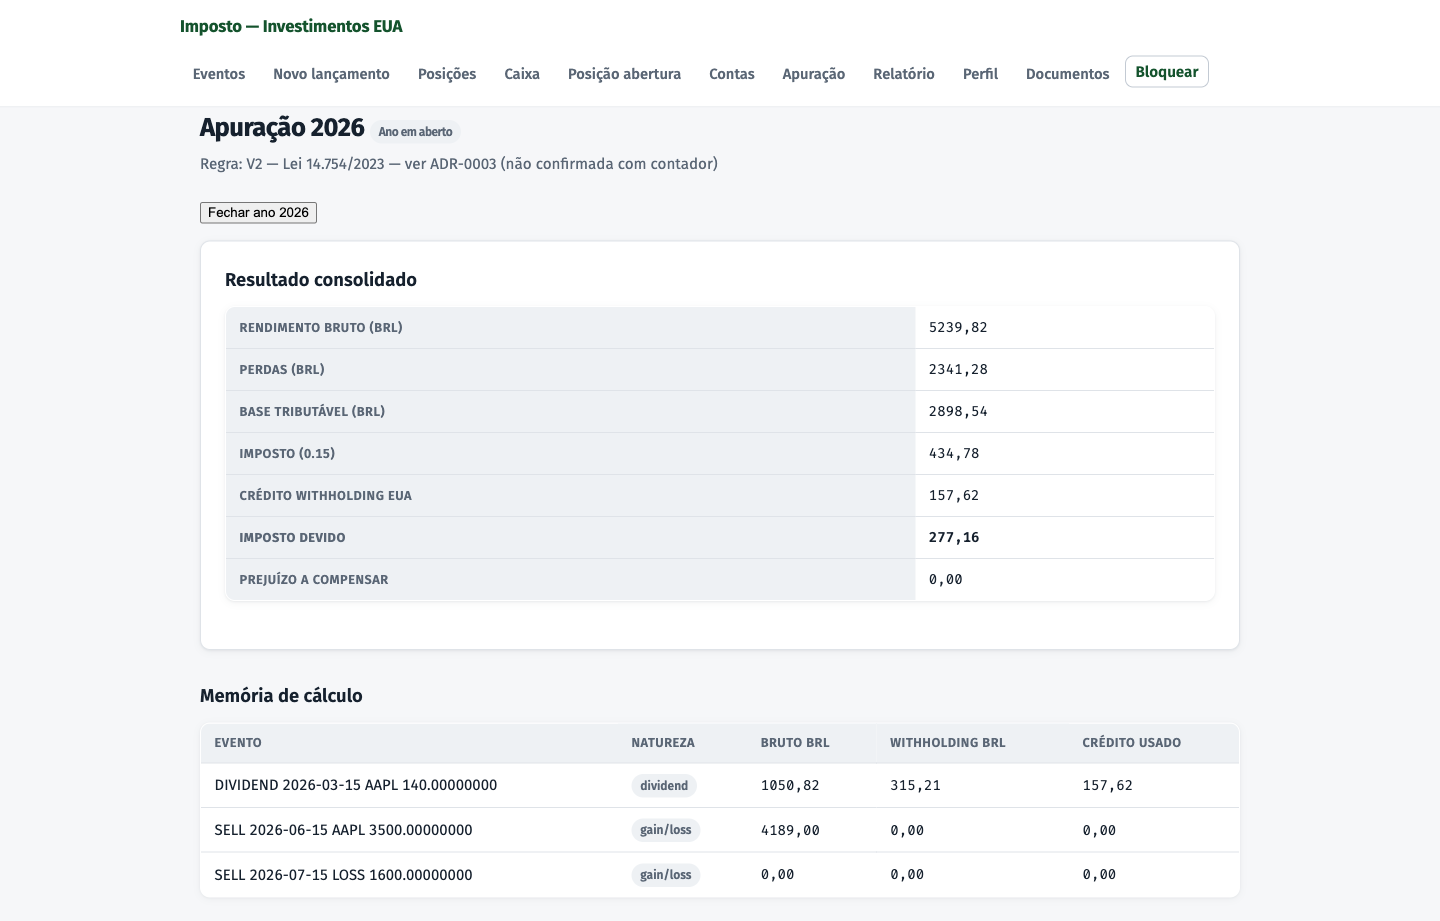
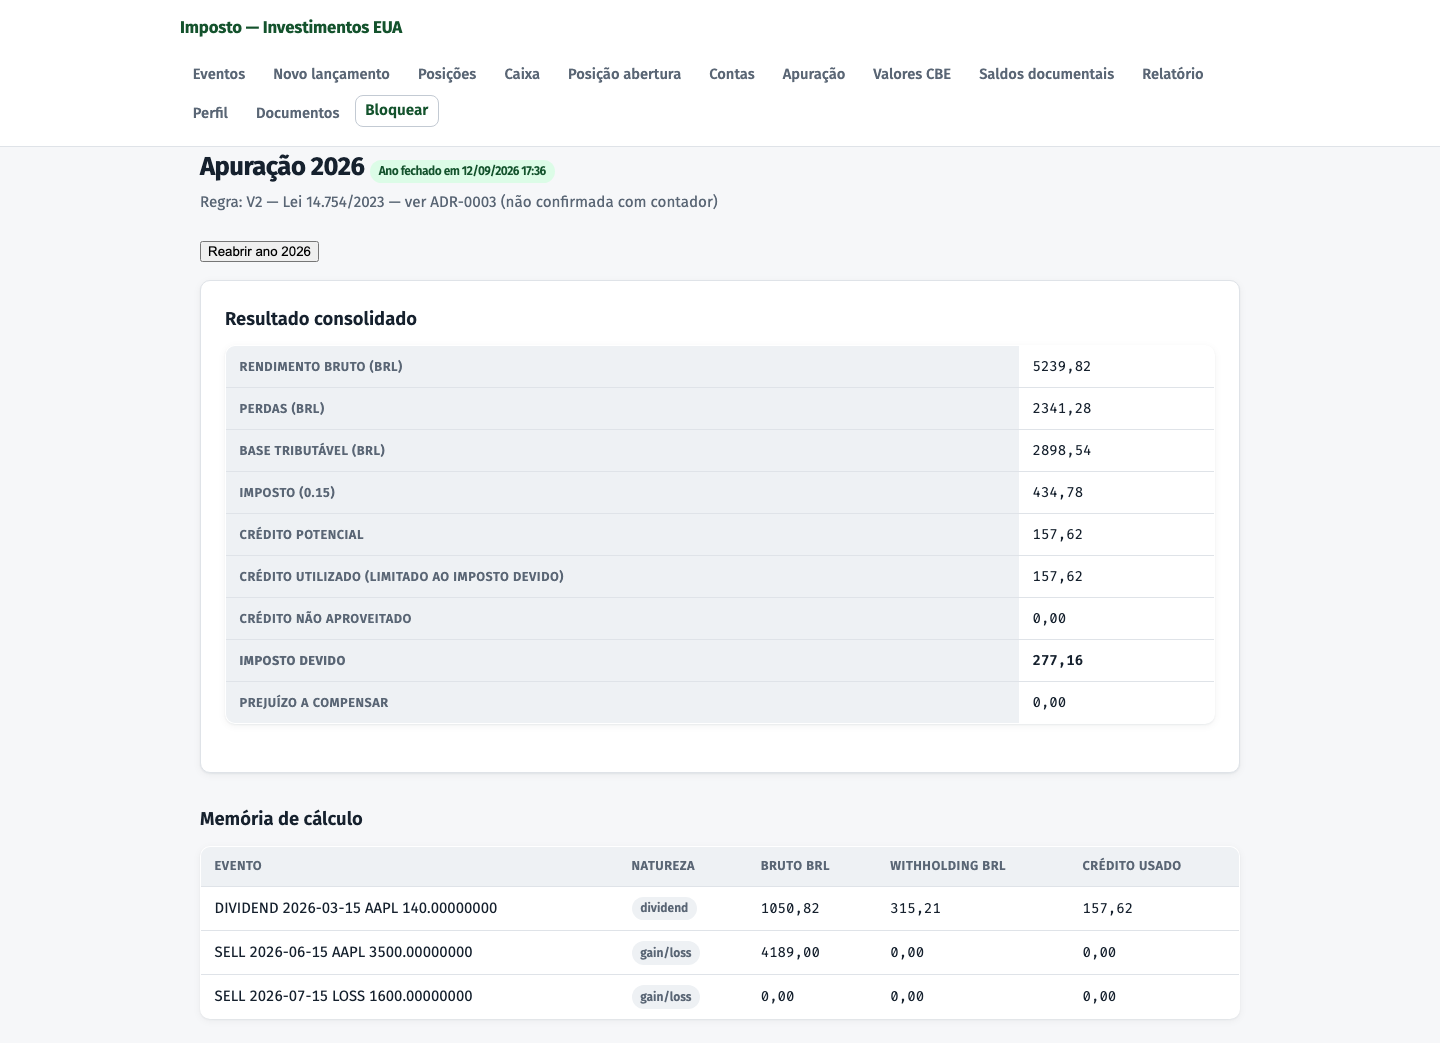
docs(manual): recaptura 16b com botão Reabrir ano (tickets 23-30)

diff --git a/docs/manual/capture_16b.py b/docs/manual/capture_16b.py
@@ -1,0 +1,206 @@
+#!/usr/bin/env python3
+"""Cenário completo do manual + saldos documentais + fechamento do ano
+(recaptura de 16b-apuracao-fechada.png com o botão Reabrir ano).
+Base em docs/manual/capture_screenshots.py."""
+import time
+from pathlib import Path
+from playwright.sync_api import sync_playwright
+
+BASE = "http://127.0.0.1:8010"
+IMG_DIR = Path(__file__).parent / "images"
+SENHA = "TesteSenha2026!"
+VIEWPORT = {"width": 1440, "height": 900}
+
+
+def click_main_submit(page):
+    btn = page.query_selector('main button[type="submit"]')
+    if btn:
+        btn.click()
+        return
+    buttons = page.query_selector_all('button[type="submit"]')
+    (buttons[-1] if len(buttons) > 1 else buttons[0]).click()
+
+
+def wait_and_check(page, label=""):
+    page.wait_for_load_state("networkidle")
+    time.sleep(0.5)
+    if "/bloqueado/" in page.url:
+        page.fill('#password', SENHA)
+        page.click('button[type="submit"]')
+        page.wait_for_load_state("networkidle")
+        return
+    corpo = page.text_content("body") or ""
+    if "errorlist" in corpo:
+        print(f"    ⚠ {label} erro no formulário")
+
+
+def novo_evento(page, acct, tipo, data, **campos):
+    page.goto(f"{BASE}/eventos/novo/")
+    page.wait_for_load_state("networkidle")
+    time.sleep(0.4)
+    page.select_option('#id_event_type', tipo)
+    time.sleep(0.3)
+    if acct:
+        page.select_option('#id_account', acct)
+    page.fill('#id_trade_date', data)
+    for sel, val in campos.items():
+        page.fill(sel, val)
+    click_main_submit(page)
+    wait_and_check(page, tipo)
+
+
+def main():
+    with sync_playwright() as p:
+        browser = p.chromium.launch(headless=True)
+        context = browser.new_context(viewport=VIEWPORT)
+        page = context.new_page()
+        page.on("dialog", lambda d: d.accept())
+
+        # SETUP
+        page.goto(f"{BASE}/bloqueado/")
+        page.wait_for_load_state("networkidle")
+        time.sleep(1)
+        if 'password2' in page.content():
+            page.fill('#password', SENHA)
+            page.fill('#password2', SENHA)
+            page.click('button[type="submit"]')
+            page.wait_for_load_state("networkidle")
+            time.sleep(1)
+            print("Setup OK")
+
+        # PERFIL
+        page.goto(f"{BASE}/perfil/")
+        page.wait_for_load_state("networkidle")
+        page.fill('#id_name', "João da Silva")
+        page.fill('#id_cpf', "000.000.000-00")
+        page.select_option('#id_tax_residency_status', "BRAZIL_RESIDENT")
+        click_main_submit(page)
+        wait_and_check(page, "Perfil")
+
+        # CONTAS
+        for nome, broker, num in (("Broker A", "Interactive Brokers", "12345678"),
+                                  ("Broker B", "Charles Schwab", "87654321")):
+            page.goto(f"{BASE}/contas/")
+            page.wait_for_load_state("networkidle")
+            page.fill('#id_name', nome)
+            page.fill('#id_broker_name', broker)
+            page.fill('#id_account_number', num)
+            page.select_option('#id_account_type', "CASH")
+            click_main_submit(page)
+            wait_and_check(page, nome)
+
+        page.goto(f"{BASE}/eventos/novo/")
+        page.wait_for_load_state("networkidle")
+        a_val = b_val = None
+        for opt in page.query_selector_all('#id_account option'):
+            if "Broker A" in (opt.text_content() or ""):
+                a_val = opt.get_attribute("value")
+            if "Broker B" in (opt.text_content() or ""):
+                b_val = opt.get_attribute("value")
+        print(f"Contas A={a_val} B={b_val}")
+
+        # ATIVOS
+        for ticker, desc in (("AAPL", "Apple Inc"), ("LOSS", "Loss Corp")):
+            page.goto(f"{BASE}/ativos/novo/")
+            page.wait_for_load_state("networkidle")
+            page.fill('#id_ticker', ticker)
+            page.fill('#id_description', desc)
+            page.select_option('#id_asset_type', "FOREIGN_EQUITY")
+            page.fill('#id_country_code', "US")
+            click_main_submit(page)
+            wait_and_check(page, ticker)
+
+        # EVENTOS
+        novo_evento(page, a_val, "APORTE", "2026-01-10", **{'#id_amount_usd': "10000"})
+        novo_evento(page, a_val, "BUY", "2026-01-15", **{
+            '#id_asset_ticker': "AAPL", '#id_quantity': "100",
+            '#id_price_usd': "50", '#id_fee_usd': "0"})
+        novo_evento(page, a_val, "BUY", "2026-02-15", **{
+            '#id_asset_ticker': "LOSS", '#id_quantity': "20",
+            '#id_price_usd': "100", '#id_fee_usd': "0"})
+        # Dividendo (bruto 200, retenção 60 → líquido 140 no caixa)
+        page.goto(f"{BASE}/eventos/novo/")
+        page.wait_for_load_state("networkidle")
+        page.select_option('#id_event_type', "DIVIDEND")
+        time.sleep(0.3)
+        page.select_option('#id_account', a_val)
+        page.fill('#id_trade_date', "2026-03-15")
+        for sel, val in (('#id_asset_ticker', "AAPL"), ('#id_quantity', "100"),
+                         ('#id_per_share_usd', "2.00"), ('#id_tax_usd', "60")):
+            page.fill(sel, val)
+        try:
+            page.check('#id_confirm_same_day')
+            page.select_option('#id_date_evidence_source', "BROKER_STATEMENT")
+            page.select_option('#id_jurisdiction_level', "FEDERAL")
+            page.select_option('#id_tax_type', "WITHHOLDING_INCOME_TAX")
+        except Exception as e:
+            print(f"    ⚠ dividendo extras: {e}")
+        click_main_submit(page)
+        wait_and_check(page, "Dividendo")
+        novo_evento(page, a_val, "SELL", "2026-06-15", **{
+            '#id_asset_ticker': "AAPL", '#id_quantity': "50",
+            '#id_price_usd': "70", '#id_fee_usd': "0"})
+        novo_evento(page, a_val, "SELL", "2026-07-15", **{
+            '#id_asset_ticker': "LOSS", '#id_quantity': "20",
+            '#id_price_usd': "80", '#id_fee_usd': "0"})
+        novo_evento(page, b_val, "APORTE", "2026-09-01", **{'#id_amount_usd': "1000"})
+
+        # SALDOS DOCUMENTAIS 31/12/2026 (caixa do ledger: A 8.240 / B 1.000)
+        def saldo(acct, cash, posicoes):
+            page.goto(f"{BASE}/documentar-saldos/")
+            page.wait_for_load_state("networkidle")
+            page.select_option('#id_account', acct)
+            page.fill('#id_reference_date', "2026-12-31")
+            page.fill('#id_cash_usd', cash)
+            if posicoes:
+                page.fill('#id_positions_text', posicoes)
+            page.check('#id_confirmed')
+            click_main_submit(page)
+            wait_and_check(page, "saldo")
+
+        # Classificar recuperabilidade do imposto exterior (PK 1)
+        page.goto(f"{BASE}/imposto-exterior/1/editar/")
+        page.wait_for_load_state("networkidle")
+        try:
+            page.select_option('#id_recoverability_status', "NON_RECOVERABLE")
+            page.fill('#id_reason', "Retenção definitiva na fonte (EUA)")
+            # input type=date exige ISO; o template renderiza DD/MM/AAAA
+            page.fill('#id_foreign_tax_payment_date', "2026-03-15")
+            page.click('#save-payment')
+            wait_and_check(page, "imposto exterior")
+        except Exception as e:
+            print(f"    ⚠ recoverability: {e}")
+
+        saldo(a_val, "8240.00", "AAPL, 50")
+        saldo(b_val, "1000.00", None)
+        print("Saldos documentais OK")
+
+        # FECHAR ANO
+        page.goto(f"{BASE}/apuracao/2026/")
+        page.wait_for_load_state("networkidle")
+        time.sleep(1)
+        fechar = page.query_selector('main form[action*="fechar"] button[type="submit"]')
+        if fechar:
+            fechar.click()
+            page.wait_for_load_state("networkidle")
+            time.sleep(2)
+        else:
+            print("⚠ botão fechar não encontrado")
+        page.goto(f"{BASE}/apuracao/2026/")
+        page.wait_for_load_state("networkidle")
+        time.sleep(1)
+        body = page.text_content("body") or ""
+        ok = "Ano fechado" in body
+        print("estado:", "FECHADO ✅" if ok else "ABERTO ❌")
+        print("reabrir:", "botão Reabrir ✅" if "Reabrir ano" in body else "sem Reabrir ❌")
+        i = body.find("Caixa de")
+        if i >= 0:
+            print("issue:", " ".join(body[i:i + 200].split()))
+        if ok:
+            page.screenshot(path=str(IMG_DIR / "16b-apuracao-fechada.png"), full_page=True)
+            print("📸 16b-apuracao-fechada.png")
+        browser.close()
+
+
+if __name__ == "__main__":
+    main()
